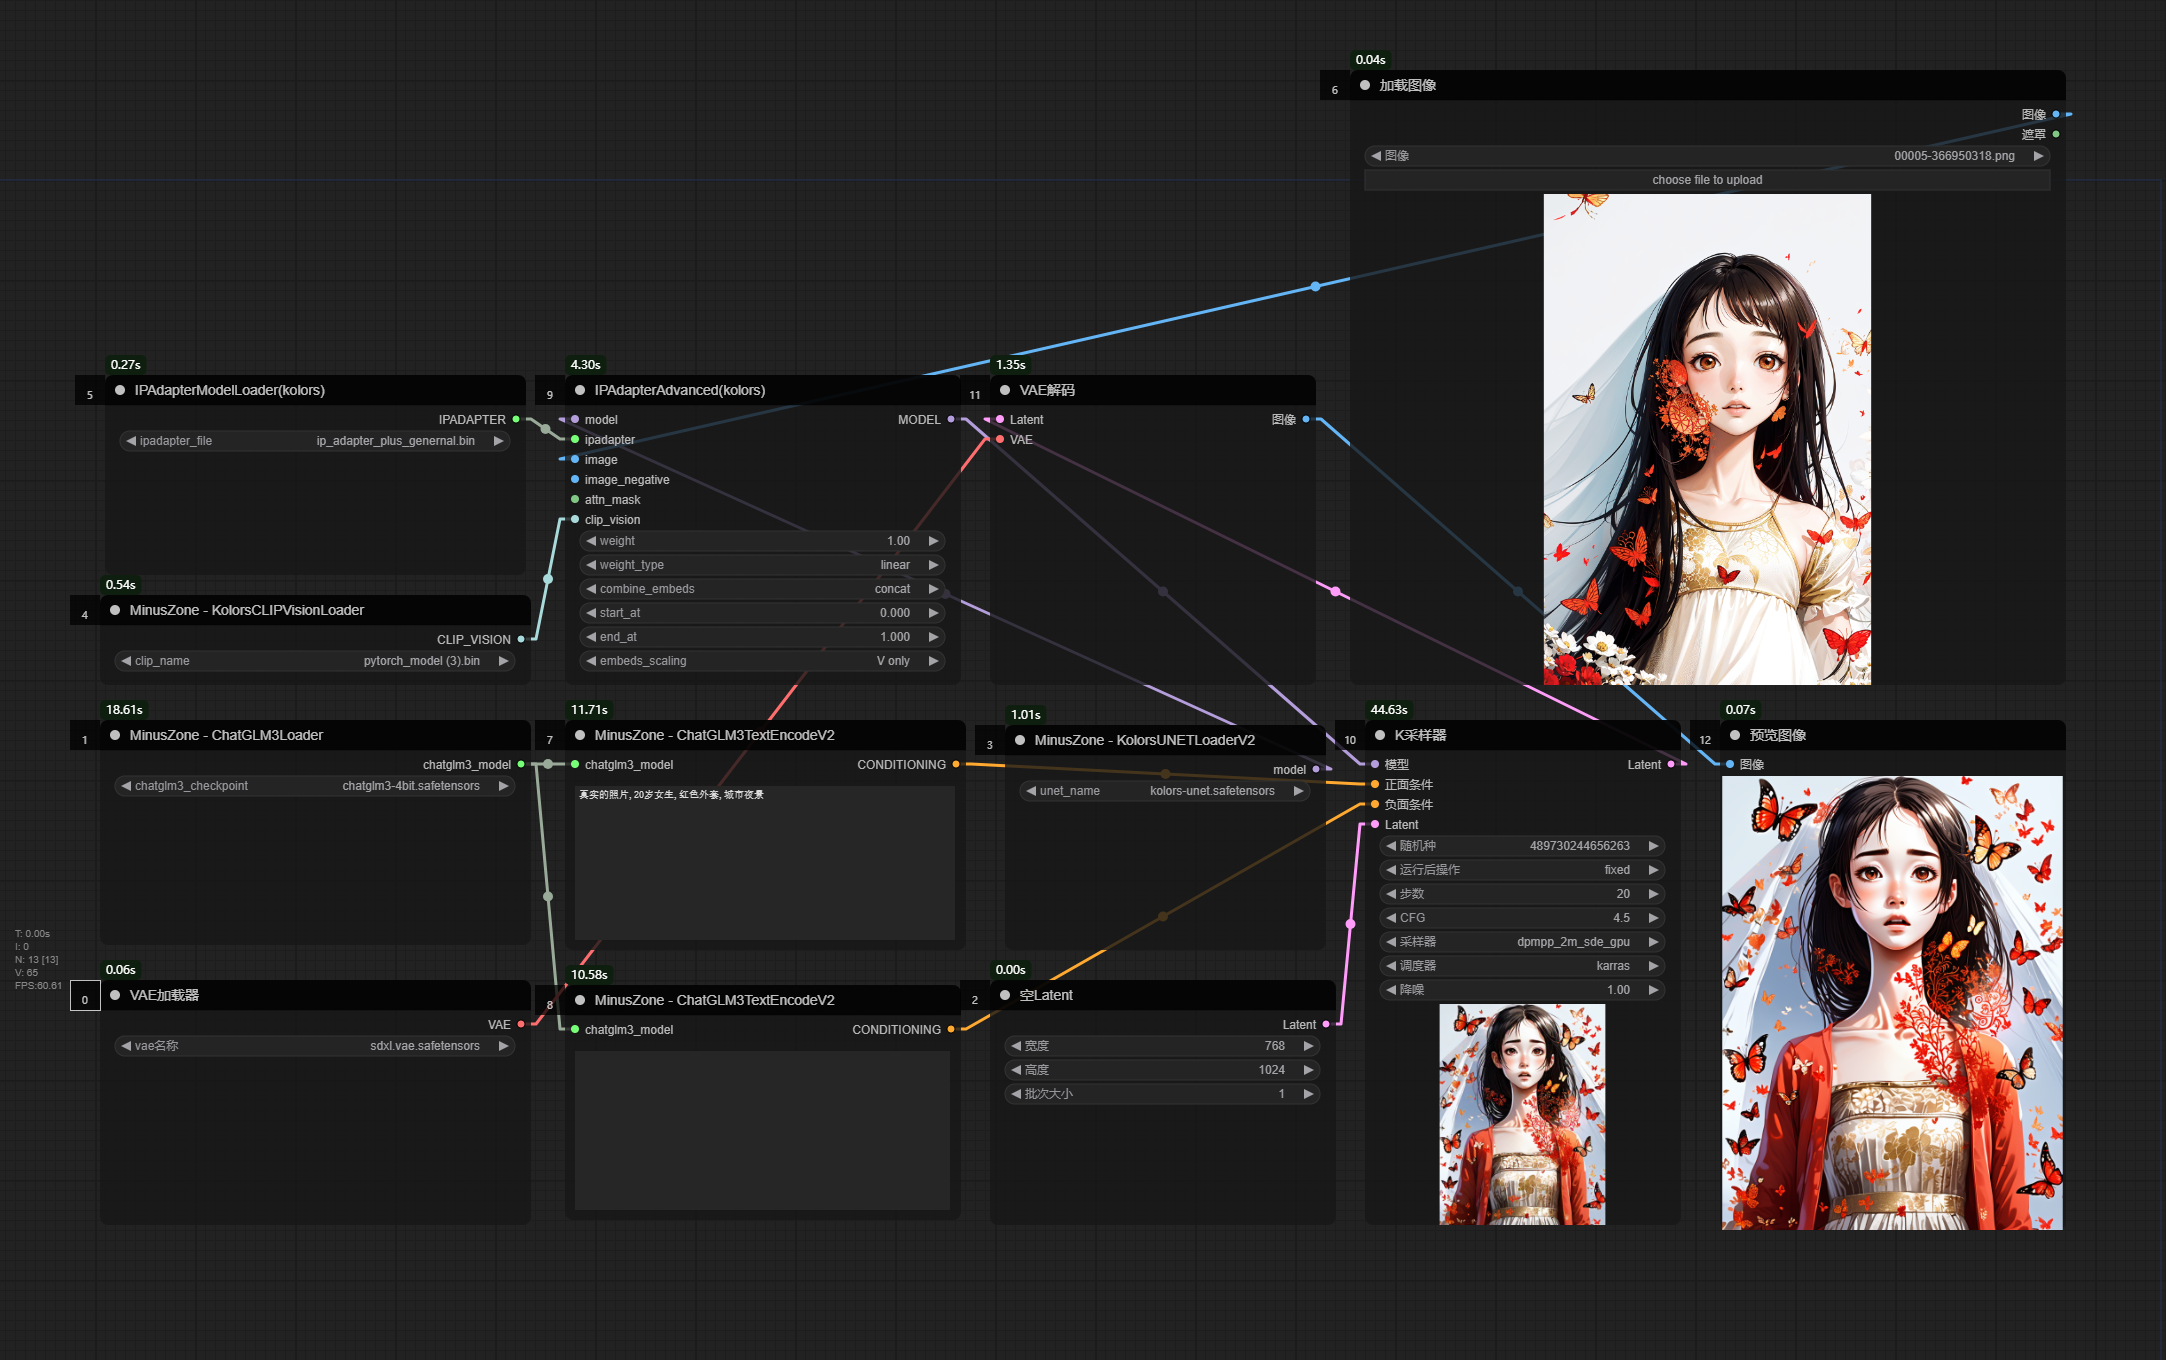
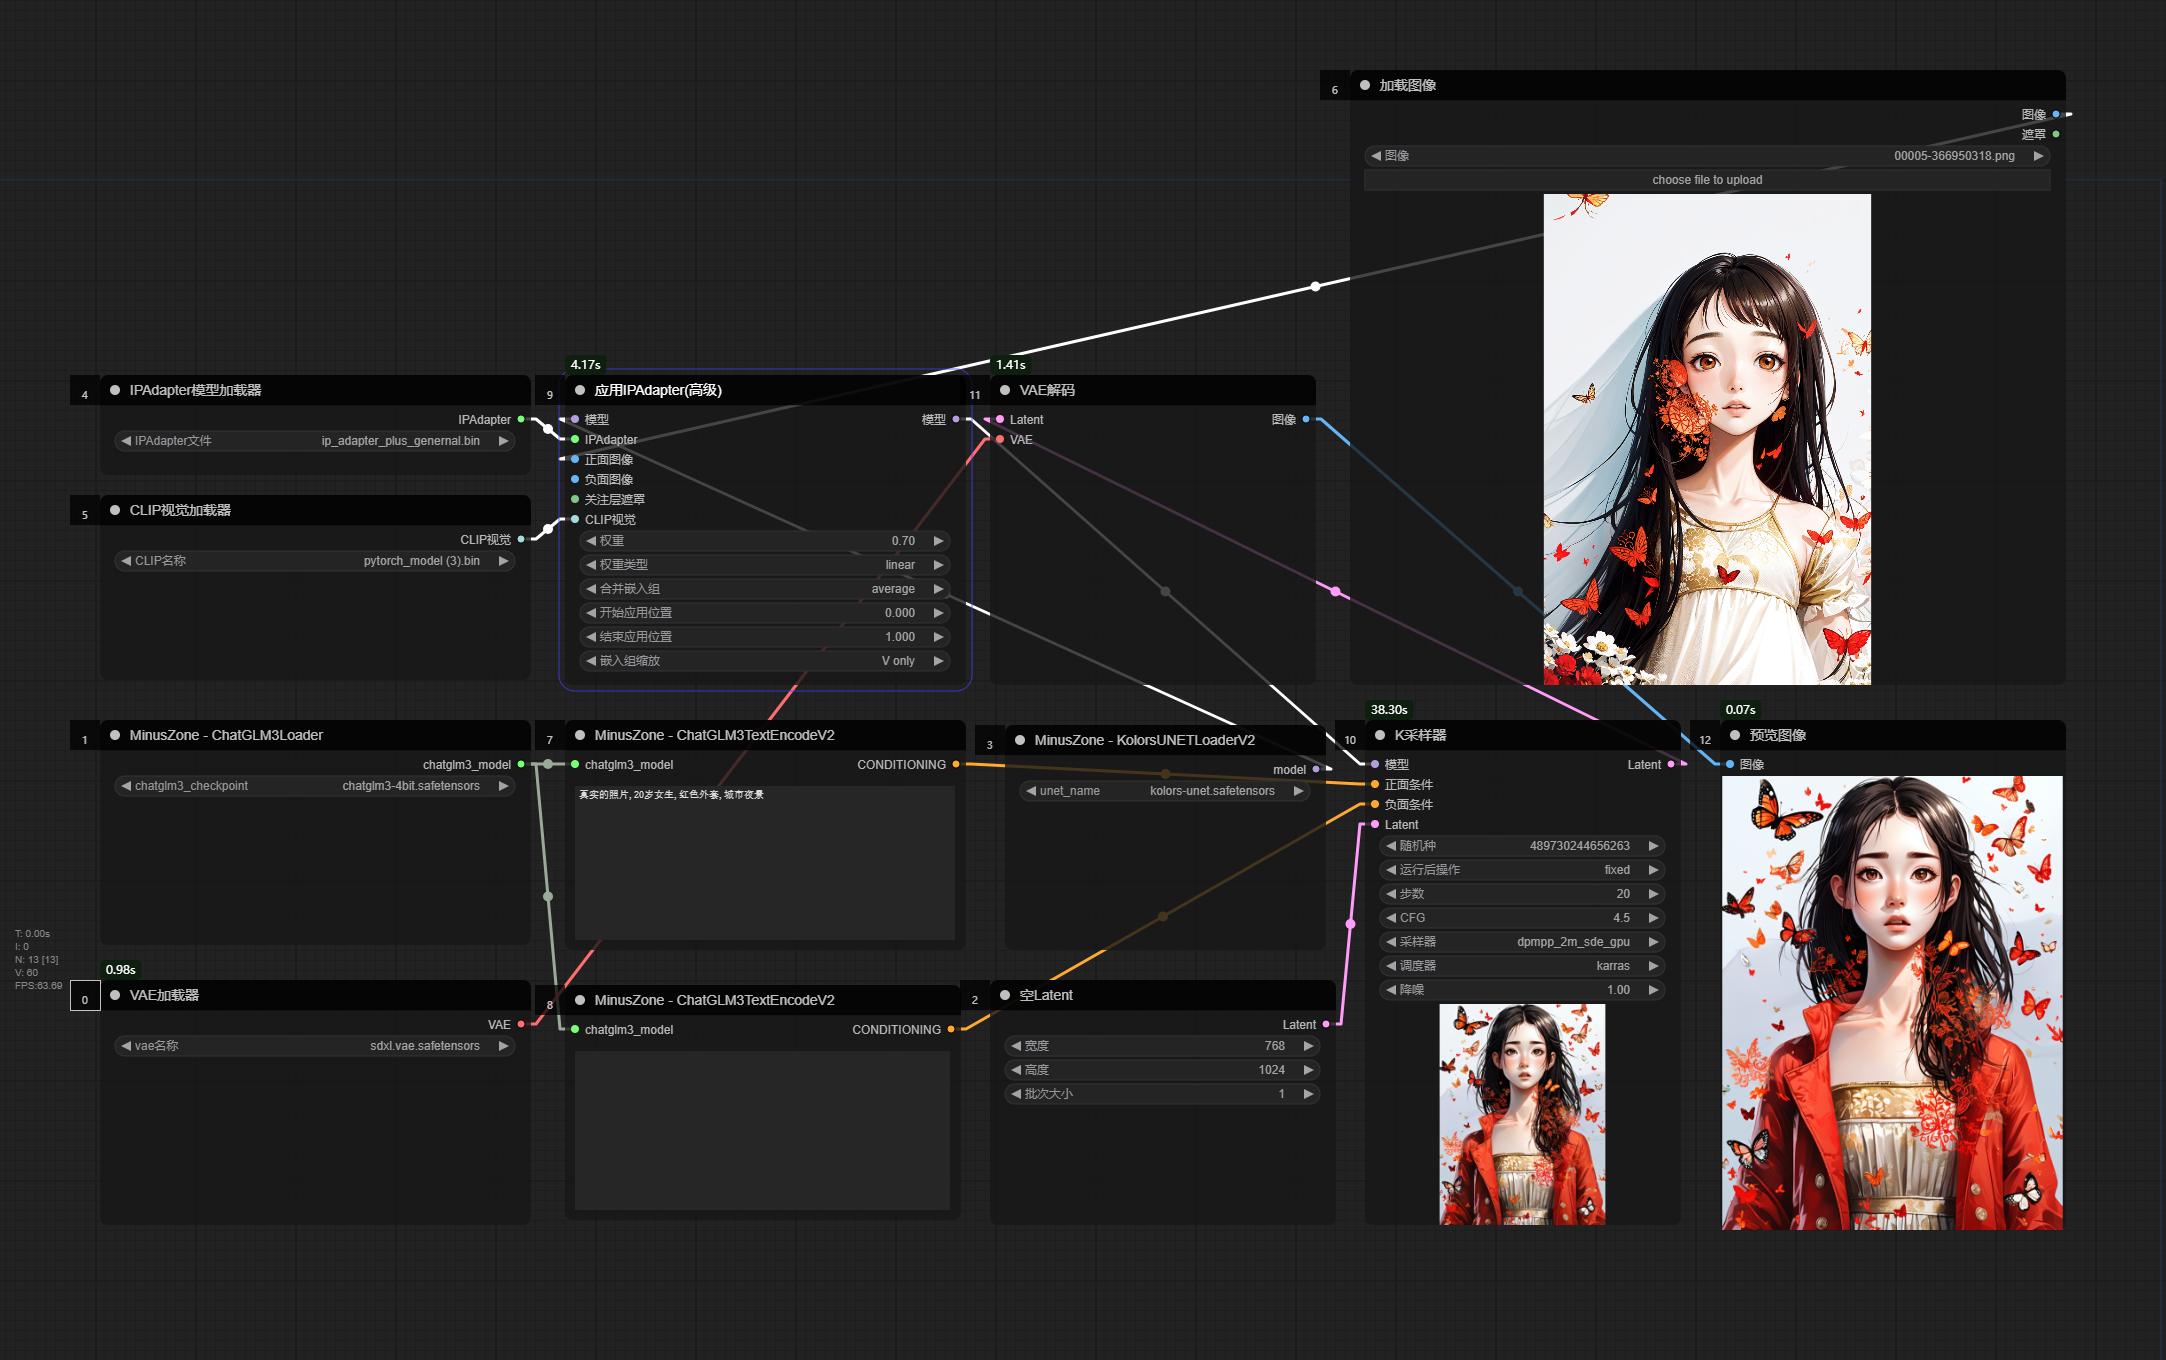
legacyflag

diff --git a/__init__.py b/__init__.py
@@ -131,7 +131,7 @@ class MZ_KolorsCLIPVisionLoader:
     RETURN_TYPES = ("CLIP_VISION",)
     FUNCTION = "load_clip"
 
-    CATEGORY = CATEGORY_NAME
+    CATEGORY = CATEGORY_NAME + "/Legacy"
 
     def load_clip(self, **kwargs):
         from . import mz_kolors_core
@@ -140,20 +140,20 @@ class MZ_KolorsCLIPVisionLoader:
 
 
 NODE_CLASS_MAPPINGS["MZ_KolorsCLIPVisionLoader"] = MZ_KolorsCLIPVisionLoader
-NODE_DISPLAY_NAME_MAPPINGS["MZ_KolorsCLIPVisionLoader"] = f"{AUTHOR_NAME} - KolorsCLIPVisionLoader"
+NODE_DISPLAY_NAME_MAPPINGS["MZ_KolorsCLIPVisionLoader"] = f"{AUTHOR_NAME} - KolorsCLIPVisionLoader - Legacy"
 
 
 from .ComfyUI_IPAdapter_plus.IPAdapterPlus import IPAdapterAdvanced, IPAdapterModelLoader
 
-IPAdapterModelLoader.CATEGORY = CATEGORY_NAME + "/IPAdapter_plus"
+IPAdapterModelLoader.CATEGORY = CATEGORY_NAME + "/Legacy"
 NODE_CLASS_MAPPINGS["MZ_IPAdapterModelLoaderKolors"] = IPAdapterModelLoader
 NODE_DISPLAY_NAME_MAPPINGS[
-    "MZ_IPAdapterModelLoaderKolors"] = f"IPAdapterModelLoader(kolors)"
+    "MZ_IPAdapterModelLoaderKolors"] = f"IPAdapterModelLoader(kolors) - Legacy"
 
-IPAdapterAdvanced.CATEGORY = CATEGORY_NAME + "/IPAdapter_plus"
+IPAdapterAdvanced.CATEGORY = CATEGORY_NAME + "/Legacy"
 NODE_CLASS_MAPPINGS["MZ_IPAdapterAdvancedKolors"] = IPAdapterAdvanced
 NODE_DISPLAY_NAME_MAPPINGS[
-    "MZ_IPAdapterAdvancedKolors"] = f"IPAdapterAdvanced(kolors)"
+    "MZ_IPAdapterAdvancedKolors"] = f"IPAdapterAdvanced(kolors) - Legacy"
 
 from . import mz_kolors_legacy
 NODE_CLASS_MAPPINGS.update(mz_kolors_legacy.NODE_CLASS_MAPPINGS)

diff --git a/README.md b/README.md
@@ -1,6 +1,7 @@
 ![image](./examples/workflow_ipa.png)
 
 ## Recent changes 
+* [2024-07-18] IPA相关节点已在ComfyUI_IPAdapter_plus中支持
 * [2024-07-17] 新增支持IPAdapter_plus的加载器和高级应用节点 MZ_KolorsCLIPVisionLoader,MZ_IPAdapterModelLoaderKolors,MZ_IPAdapterAdvancedKolors
 * [2024-07-14] 删除自动兼容ControlNet, 新增MZ_KolorsControlNetPatch节点
   ![image](https://github.com/user-attachments/assets/73ae6447-c69d-4781-9c66-94e0029709ed)
